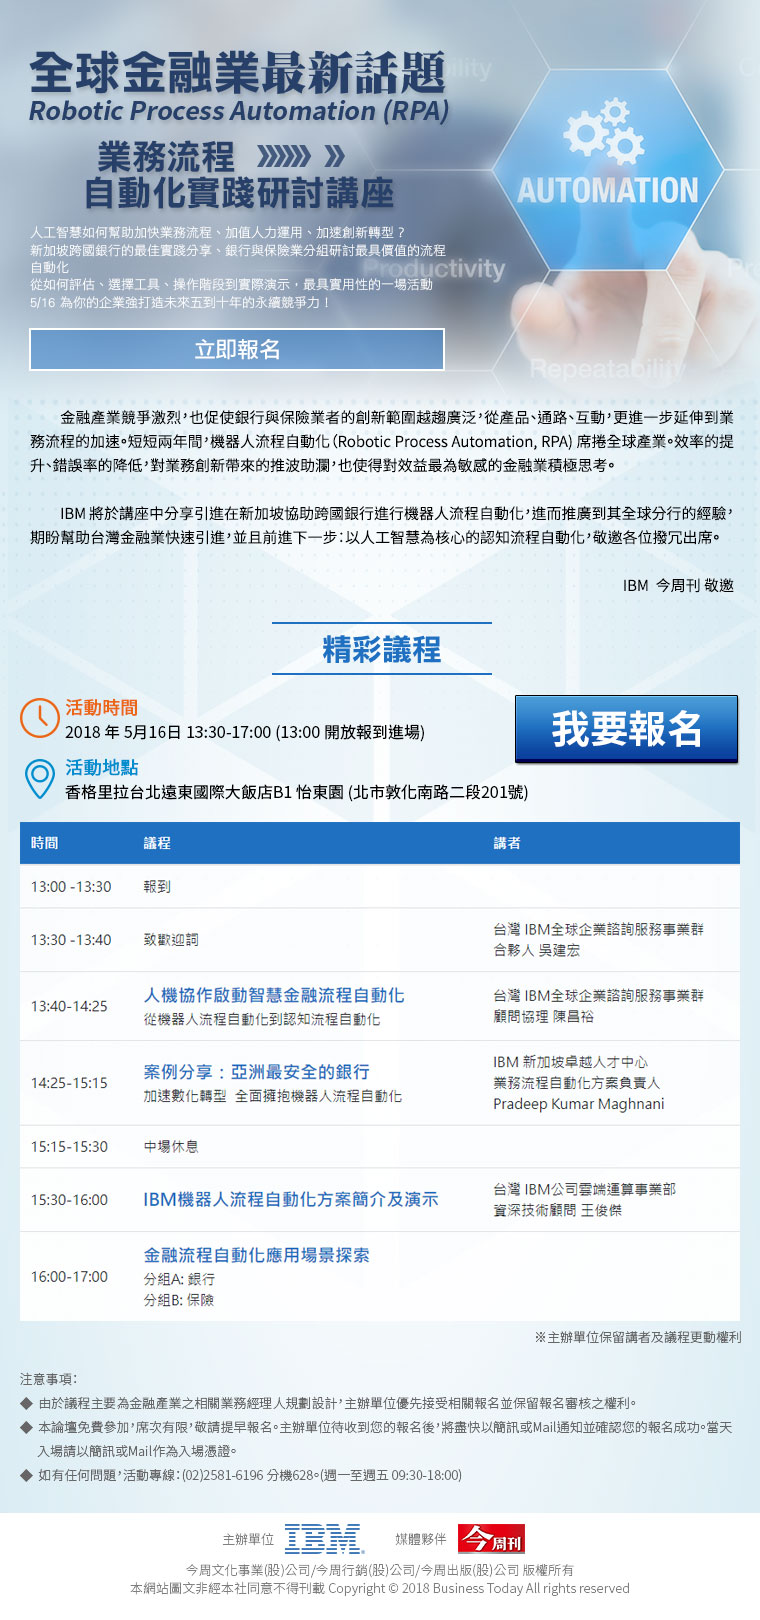
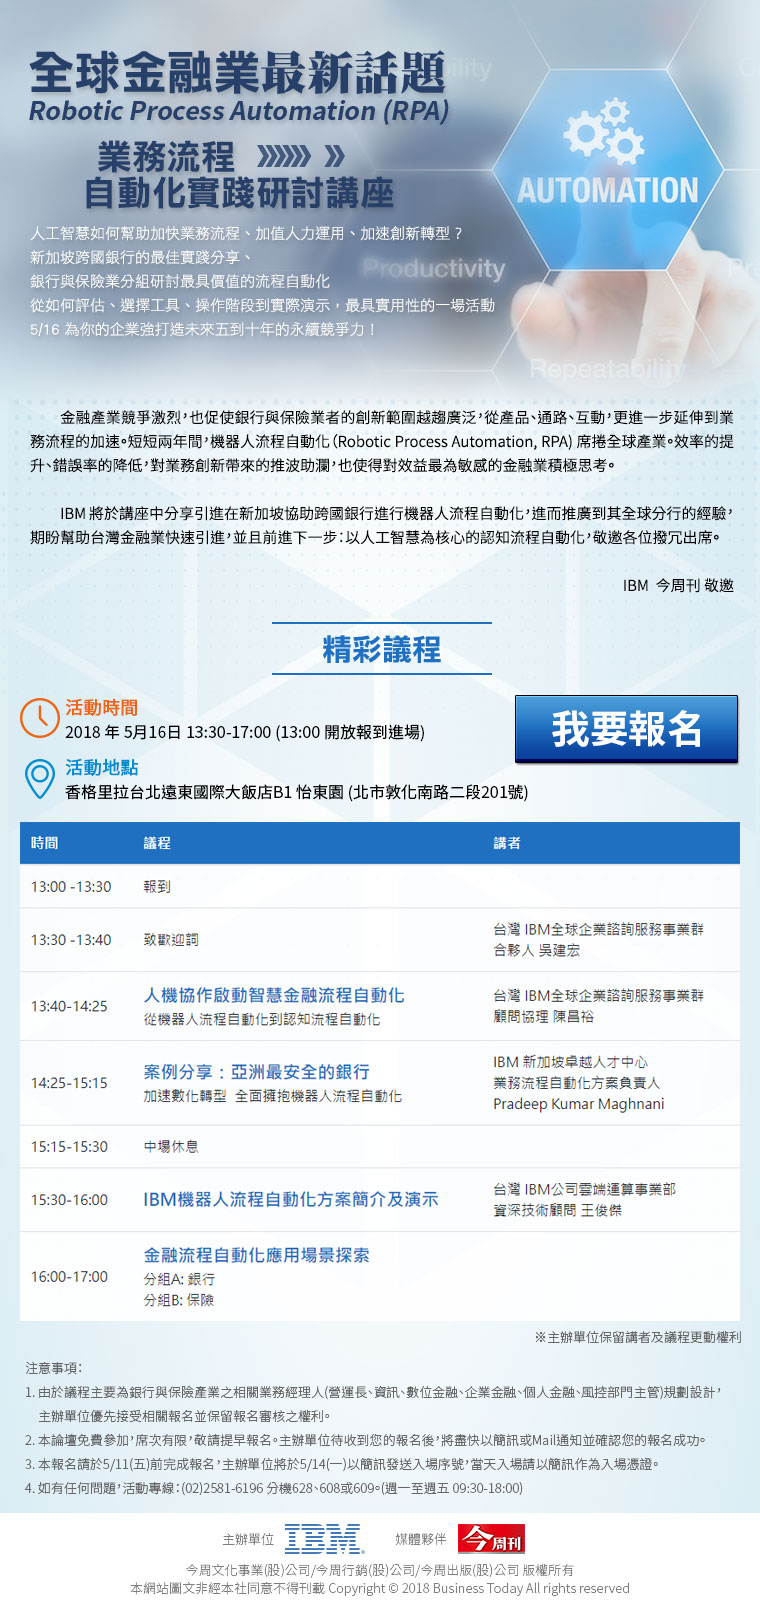
180416-2

Changed region(s): [[0.0303, 0.8333, 0.9382, 0.9259], [0.0303, 0.1235, 0.6355, 0.2469]]

diff --git a/web/index.html b/web/index.html
@@ -322,8 +322,9 @@
                                 <li>
                                     由於議程主要為銀行與保險產業之相關業務經理人(營運長、資訊、數位金融、企業金融、個人金融、風控部門主管)規劃設計，主辦單位優先接受相關報名並保留報名審核之權利。
                                 </li>
-                                <li>本論壇免費參加，席次有限，敬請提早報名。主辦單位待收到您的報名後，將盡快以簡訊或Mail通知並確認您的報名成功。當天入場請以簡訊或Mail作為入場憑證。</li>
-                                <li>如有任何問題，活動專線：(02)2581-6196 分機628。(週一至週五 09:30-18:00)</li>
+                                <li>本論壇免費參加，席次有限，敬請提早報名。主辦單位待收到您的報名後，將盡快以簡訊或Mail通知並確認您的報名成功。</li>
+                                <li>本報名請於5/11(五)前完成報名，主辦單位將於5/14(一)以簡訊發送入場序號，當天入場請以簡訊作為入場憑證。</li>
+                                <li>如有任何問題，活動專線：(02)2581-6196 分機628、608或609。(週一至週五 09:30-18:00)</li>
                             </ul>
                         </div>
                         <button class="btn btn-primary btn-block btn-lg">立即報名</button>
